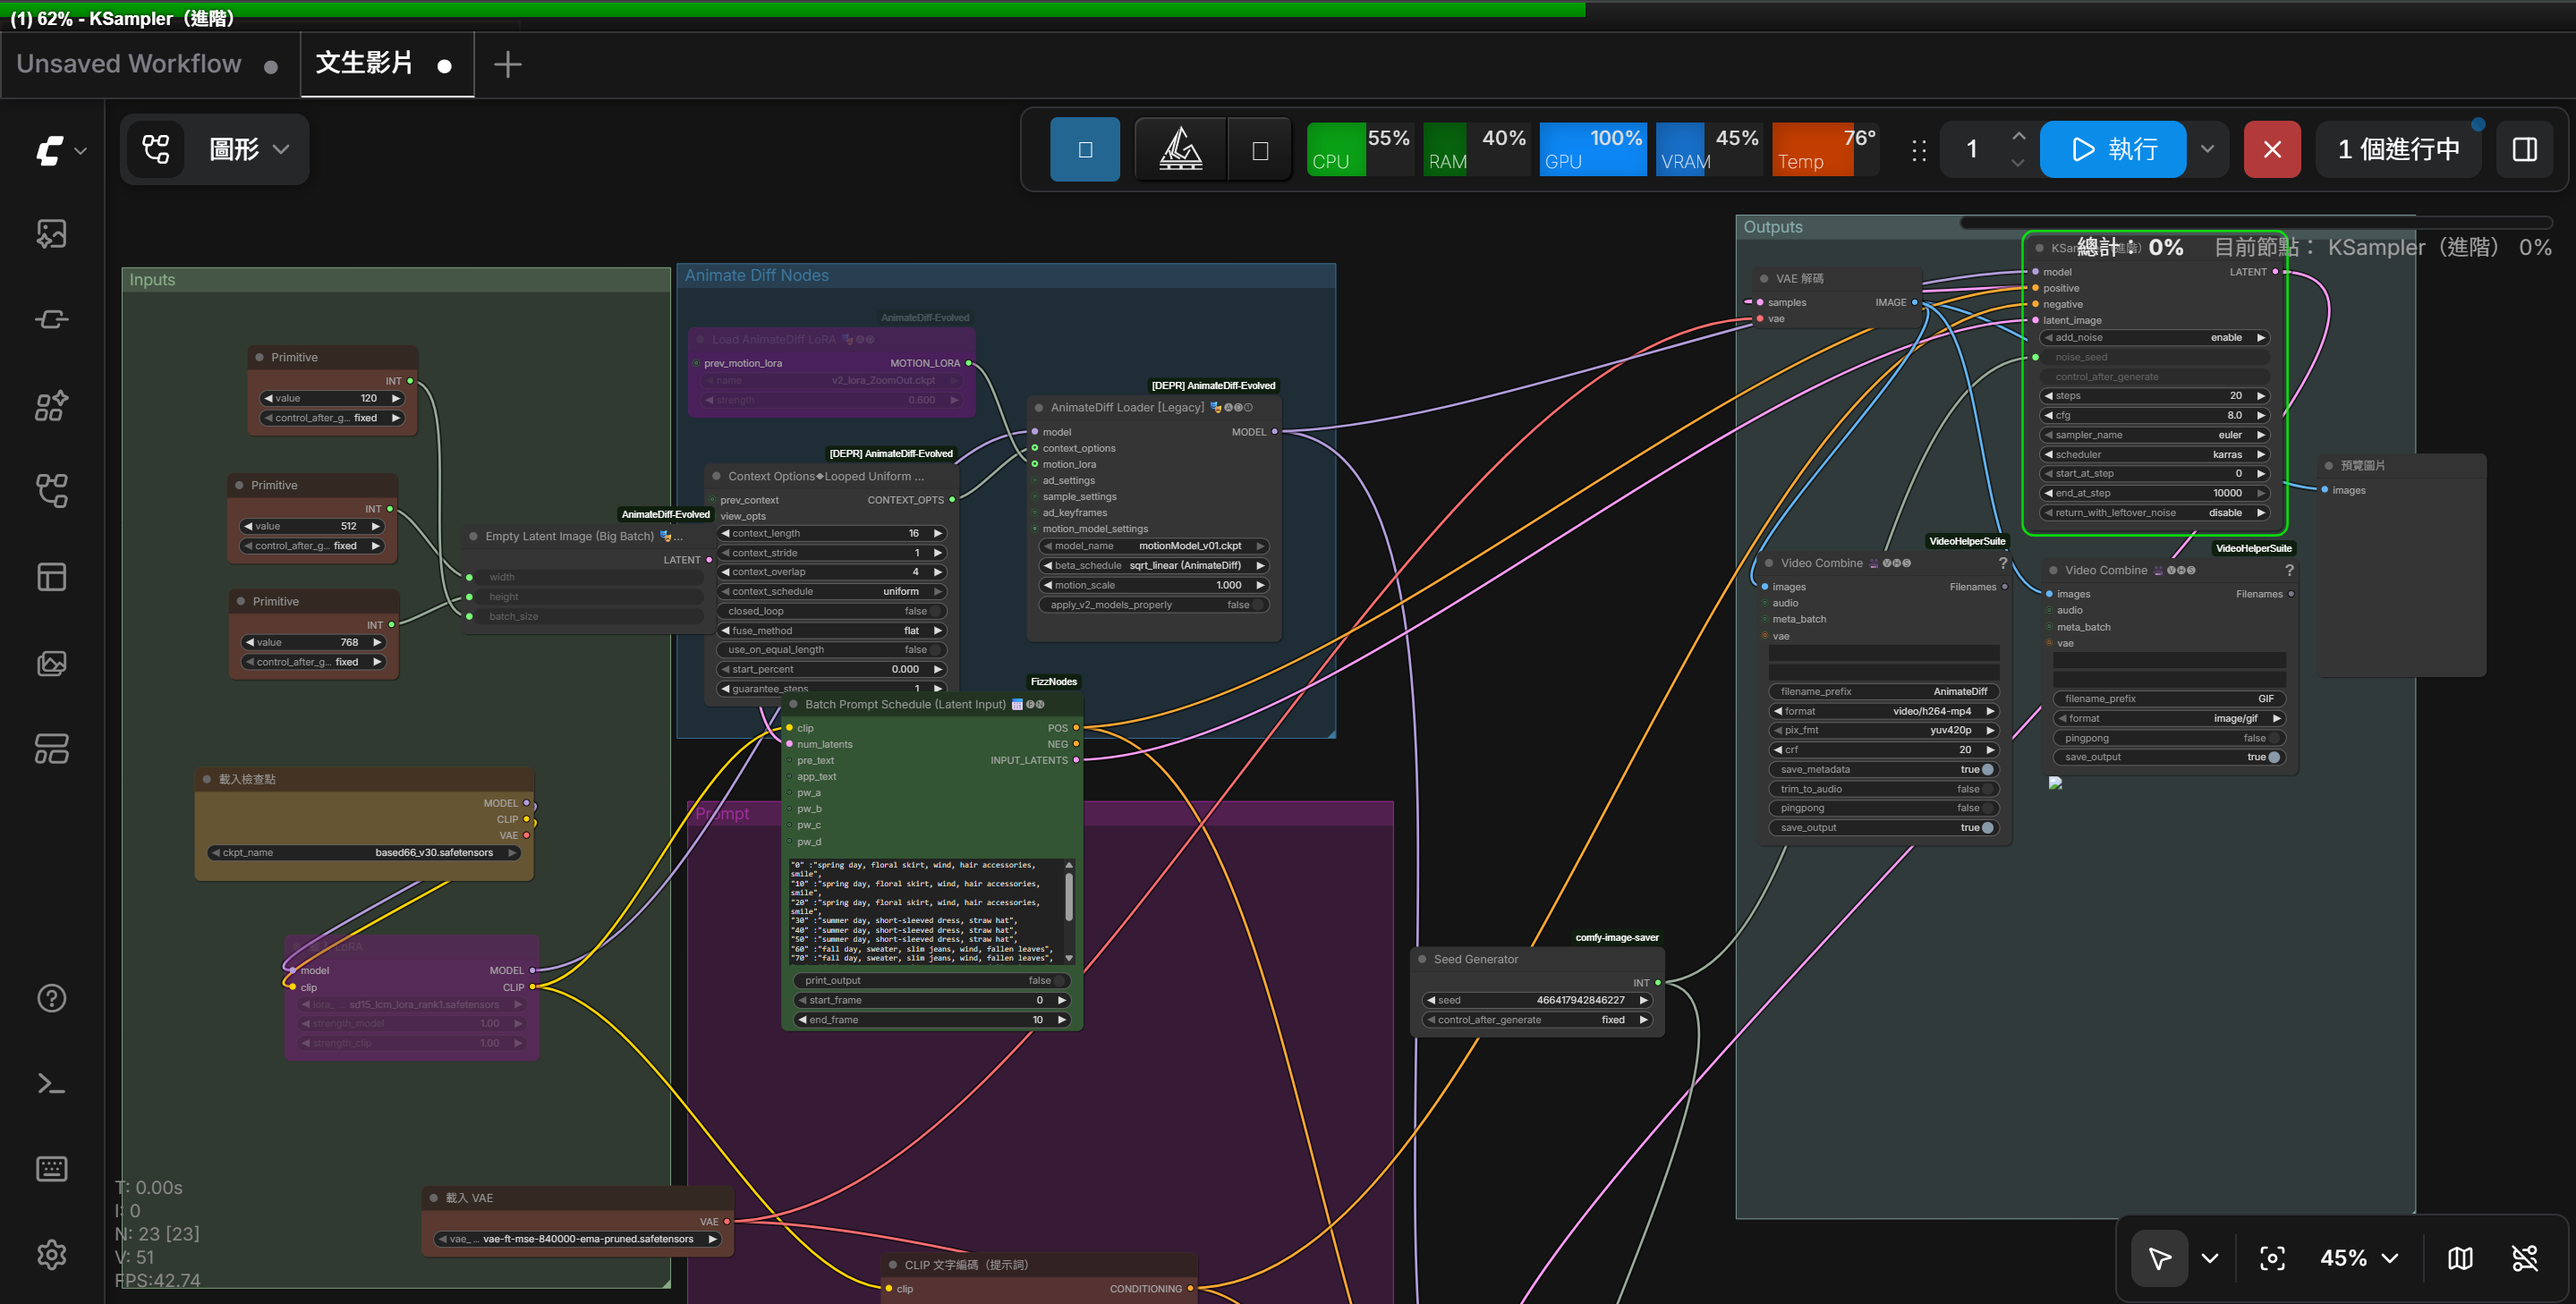
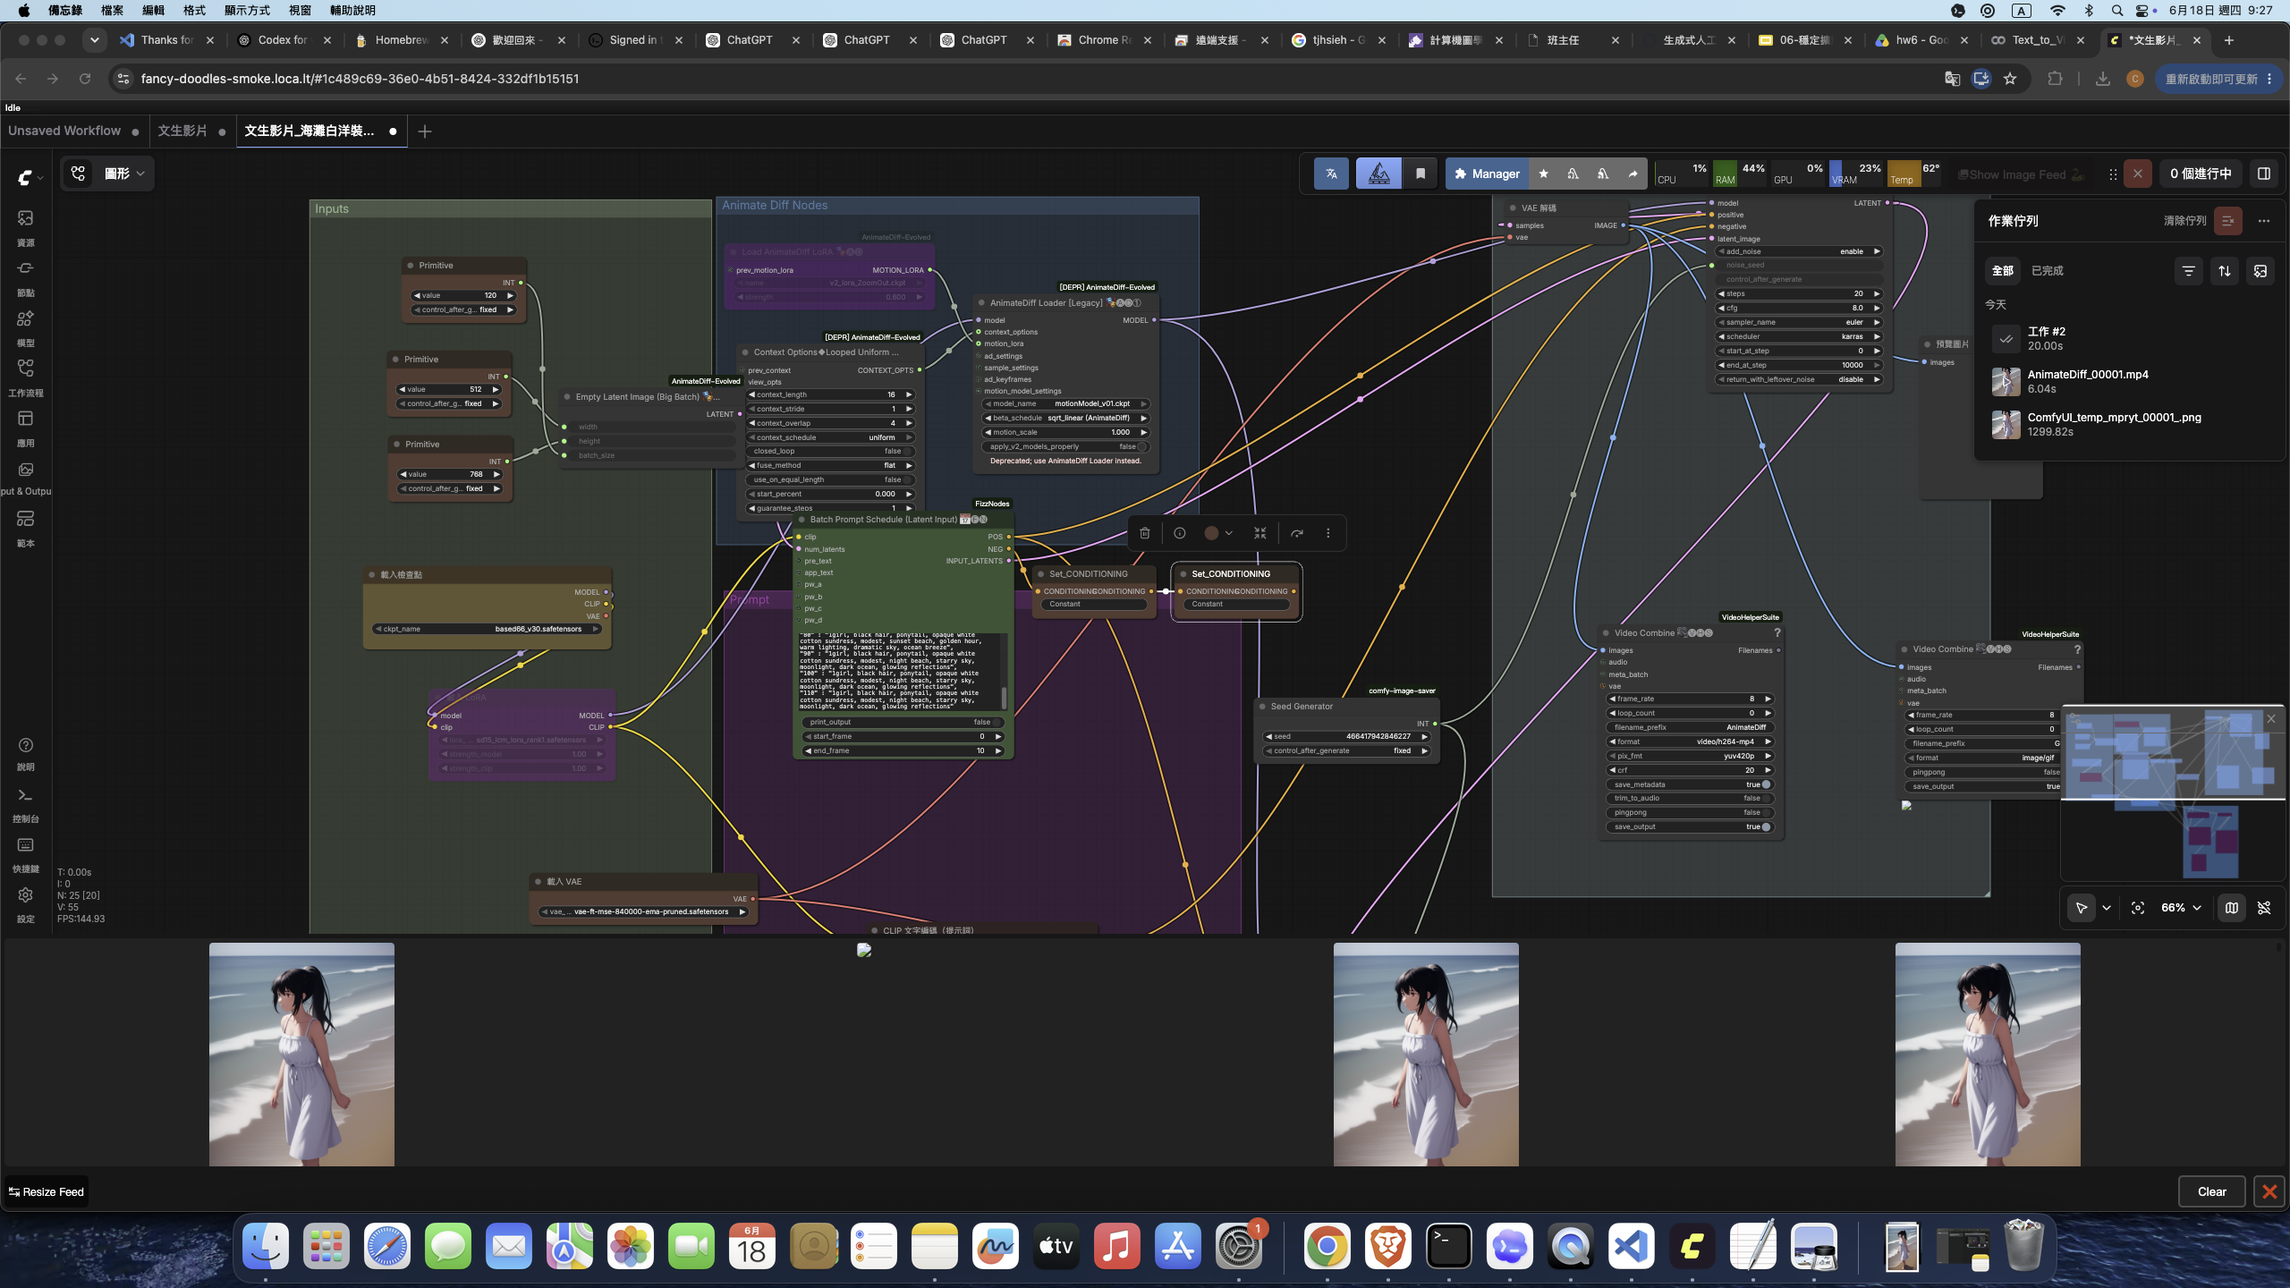
hw6

diff --git a/hw06/index.html b/hw06/index.html
@@ -153,9 +153,8 @@
   <!-- ------------------------------------------------>
   <div class="row hw12">
     <div class="col-md-12 twenty">
-      本次作業是接觸文生影片的初步應用，使用的是目前提供個人使用功能最齊全的文生圖工具ComfyUI，
-      以及使用在Civitai上開源的模型，透過節點式的方式連接模塊，構建工作流並執行產生影片，
-      過程有趣且也能透過該過程理解模型運作流程，最後成功生成影像。
+      還記得在上課時，看助教Demo colab的comfy UI經常出問題，以及在作業2生成字體時的，對於colab每次只能用3小時左右的限制，有不好的印象。所以這次我從一開始就下定決心跑本地端的comfy UI，沒想到過程中遇到非常多的問題，經歷了20天的掙扎，我在作業繳交期限的前一天，重新拾回線上版的Colab，並在短短的2小時內便完成作業。<br>
+      這段故事讓我更加感謝辛苦的助教，也許助教也是在經歷了各種困難，才成功做出了工作流讓學生們可以直接用。珍惜前人留下的經驗～<br>
     </div>
   </div>
 
@@ -210,18 +209,25 @@
       <figcaption>生成角色的圖片</figcaption>
       <img src="2.png"  width="500"><br>
       <td> 使用提示詞:
-          "0" :"spring day, floral skirt, wind, hair accessories, smile",
-          "10" :"spring day, floral skirt, wind, hair accessories, smile",
-          "20" :"spring day, floral skirt, wind, hair accessories, smile",
-          "30" :"summer day, short-sleeved dress, straw hat",
-          "40" :"summer day, short-sleeved dress, straw hat",
-          "50" :"summer day, short-sleeved dress, straw hat",
-          "60" :"fall day, sweater, slim jeans, wind, fallen leaves",
-          "70" :"fall day, sweater, slim jeans, wind, fallen leaves",
-          "80" :"fall day, sweater, slim jeans, wind, fallen leaves",
-          "90" :"winter, down jacket, woolen hat, ear protection gloves, snowflakes",
-          "100" :"winter, down jacket, woolen hat, ear protection gloves, snowflakes",
-          "110" :"winter, down jacket, woolen hat, ear protection gloves, snowflakes"
+         <br>
+          Prompt:
+          <br>
+          "0" :"1girl, black hair, ponytail, opaque white cotton sundress, modest, morning beach, clear sky, soft morning light, ocean waves, walking",<br>
+          "10" :"1girl, black hair, ponytail, opaque white cotton sundress, modest, morning beach, clear sky, soft morning light, ocean waves, walking",<br>
+          "20" :"1girl, black hair, ponytail, opaque white cotton sundress, modest, morning beach, clear sky, soft morning light, ocean waves, walking",<br>
+          "30" :"1girl, black hair, ponytail, opaque white cotton sundress, modest, sunny beach, noon, bright sunlight, clear blue sky, sparkling water",<br>
+          "40" :"1girl, black hair, ponytail, opaque white cotton sundress, modest, sunny beach, noon, bright sunlight, clear blue sky, sparkling water",<br>
+          "50" :"1girl, black hair, ponytail, opaque white cotton sundress, modest, sunny beach, noon, bright sunlight, clear blue sky, sparkling water",<br>
+          "60" :"1girl, black hair, ponytail, opaque white cotton sundress, modest, sunset beach, golden hour, warm lighting, dramatic sky, ocean breeze",<br>
+          "70" :"1girl, black hair, ponytail, opaque white cotton sundress, modest, sunset beach, golden hour, warm lighting, dramatic sky, ocean breeze",<br>
+          "80" :"1girl, black hair, ponytail, opaque white cotton sundress, modest, sunset beach, golden hour, warm lighting, dramatic sky, ocean breeze",<br>
+          "90" :"1girl, black hair, ponytail, opaque white cotton sundress, modest, night beach, starry sky, moonlight, dark ocean, glowing reflections",<br>
+          "100" :"1girl, black hair, ponytail, opaque white cotton sundress, modest, night beach, starry sky, moonlight, dark ocean, glowing reflections",<br>
+          "110" :"1girl, black hair, ponytail, opaque white cotton sundress, modest, night beach, starry sky, moonlight, dark ocean, glowing reflections"<br>
+        <br>
+          Negative Prompt:<br>
+          (bad quality, worst quality:1.2), sheer, transparent, translucent, revealing, wet clothes<br>
+
       </td>
     </div>
   </div>
@@ -230,18 +236,25 @@
       <figcaption>生成完整角色動畫</figcaption>
       <img src="3.gif" ><br>
       <td> 使用提示詞:
-          "0" :"spring day, floral skirt, wind, hair accessories, smile",
-          "10" :"spring day, floral skirt, wind, hair accessories, smile",
-          "20" :"spring day, floral skirt, wind, hair accessories, smile",
-          "30" :"summer day, short-sleeved dress, straw hat",
-          "40" :"summer day, short-sleeved dress, straw hat",
-          "50" :"summer day, short-sleeved dress, straw hat",
-          "60" :"fall day, sweater, slim jeans, wind, fallen leaves",
-          "70" :"fall day, sweater, slim jeans, wind, fallen leaves",
-          "80" :"fall day, sweater, slim jeans, wind, fallen leaves",
-          "90" :"winter, down jacket, woolen hat, ear protection gloves, snowflakes",
-          "100" :"winter, down jacket, woolen hat, ear protection gloves, snowflakes",
-          "110" :"winter, down jacket, woolen hat, ear protection gloves, snowflakes"
+        <br>
+          Prompt:
+          <br>
+          "0" :"1girl, black hair, ponytail, opaque white cotton sundress, modest, morning beach, clear sky, soft morning light, ocean waves, walking",<br>
+          "10" :"1girl, black hair, ponytail, opaque white cotton sundress, modest, morning beach, clear sky, soft morning light, ocean waves, walking",<br>
+          "20" :"1girl, black hair, ponytail, opaque white cotton sundress, modest, morning beach, clear sky, soft morning light, ocean waves, walking",<br>
+          "30" :"1girl, black hair, ponytail, opaque white cotton sundress, modest, sunny beach, noon, bright sunlight, clear blue sky, sparkling water",<br>
+          "40" :"1girl, black hair, ponytail, opaque white cotton sundress, modest, sunny beach, noon, bright sunlight, clear blue sky, sparkling water",<br>
+          "50" :"1girl, black hair, ponytail, opaque white cotton sundress, modest, sunny beach, noon, bright sunlight, clear blue sky, sparkling water",<br>
+          "60" :"1girl, black hair, ponytail, opaque white cotton sundress, modest, sunset beach, golden hour, warm lighting, dramatic sky, ocean breeze",<br>
+          "70" :"1girl, black hair, ponytail, opaque white cotton sundress, modest, sunset beach, golden hour, warm lighting, dramatic sky, ocean breeze",<br>
+          "80" :"1girl, black hair, ponytail, opaque white cotton sundress, modest, sunset beach, golden hour, warm lighting, dramatic sky, ocean breeze",<br>
+          "90" :"1girl, black hair, ponytail, opaque white cotton sundress, modest, night beach, starry sky, moonlight, dark ocean, glowing reflections",<br>
+          "100" :"1girl, black hair, ponytail, opaque white cotton sundress, modest, night beach, starry sky, moonlight, dark ocean, glowing reflections",<br>
+          "110" :"1girl, black hair, ponytail, opaque white cotton sundress, modest, night beach, starry sky, moonlight, dark ocean, glowing reflections"<br>
+        <br>
+          Negative Prompt:<br>
+          (bad quality, worst quality:1.2), sheer, transparent, translucent, revealing, wet clothes<br>
+
       </td>
     </div>
   </div>
